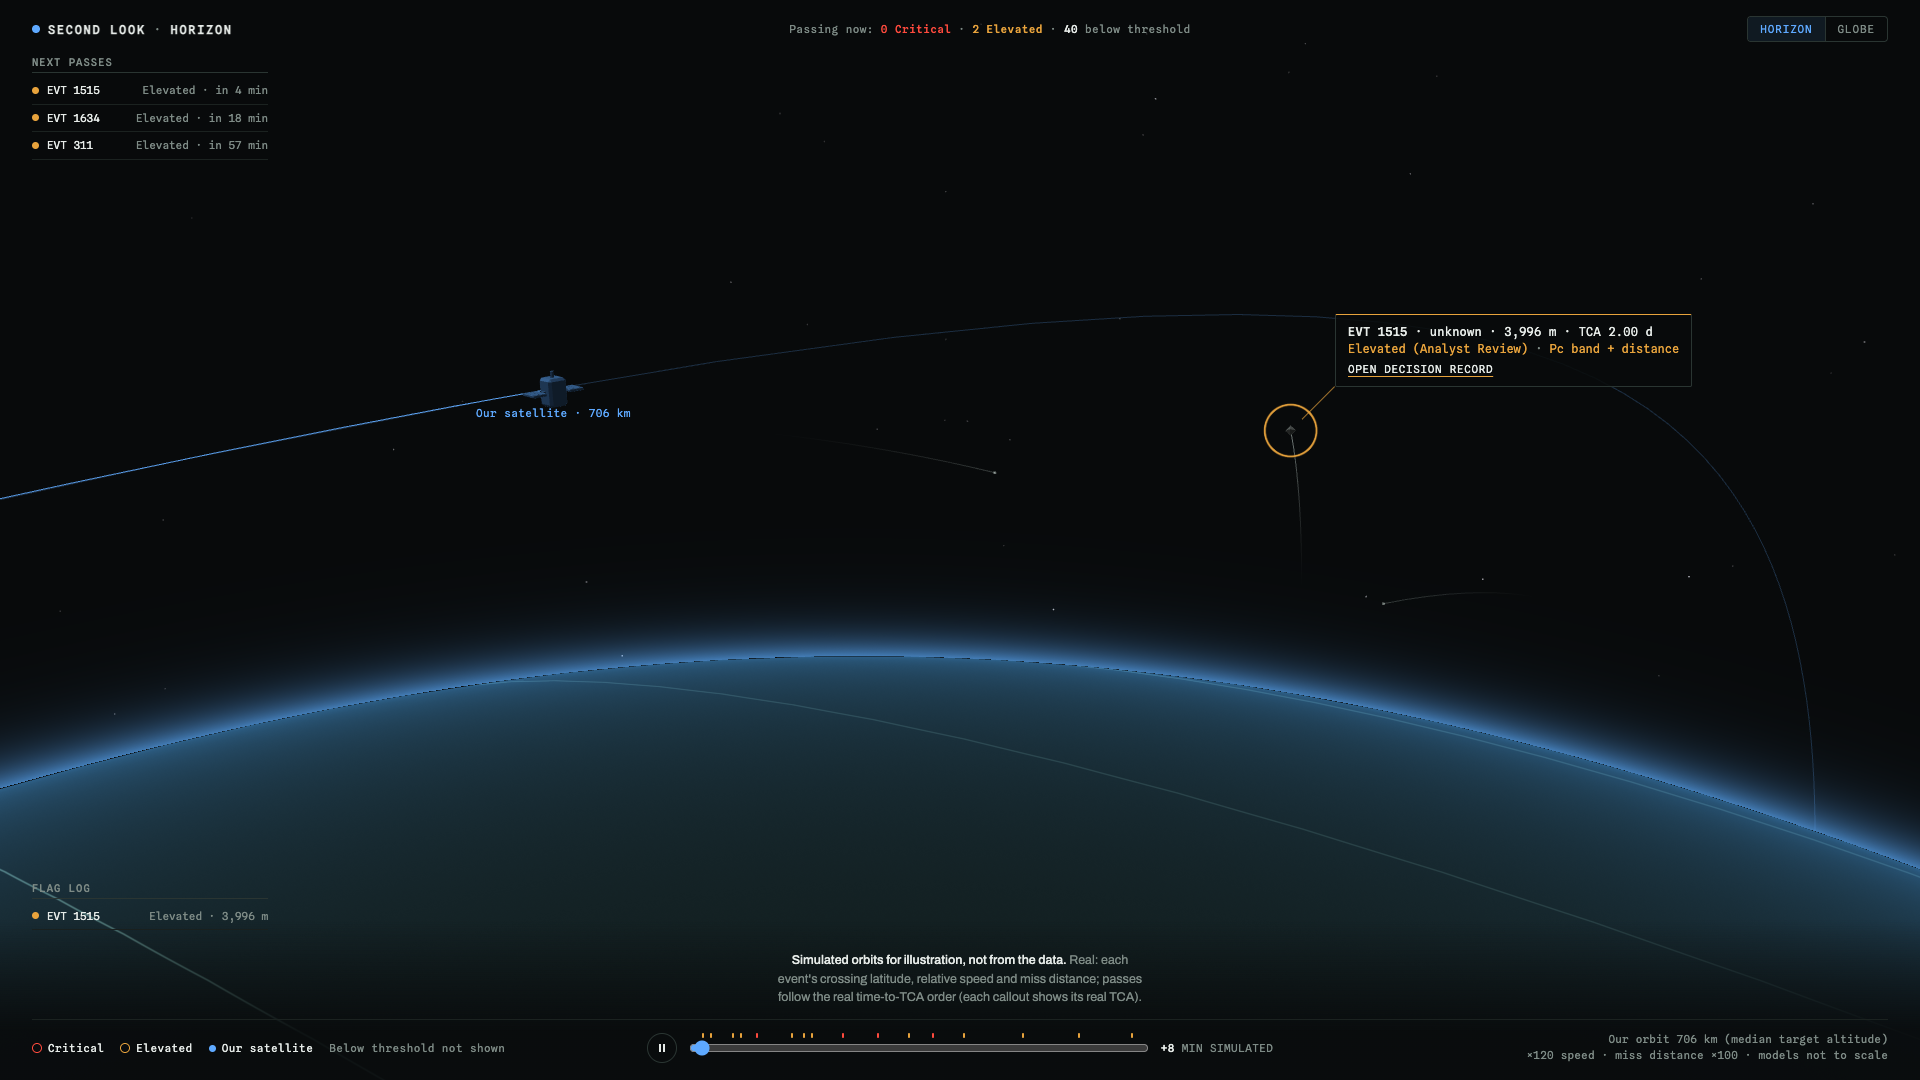
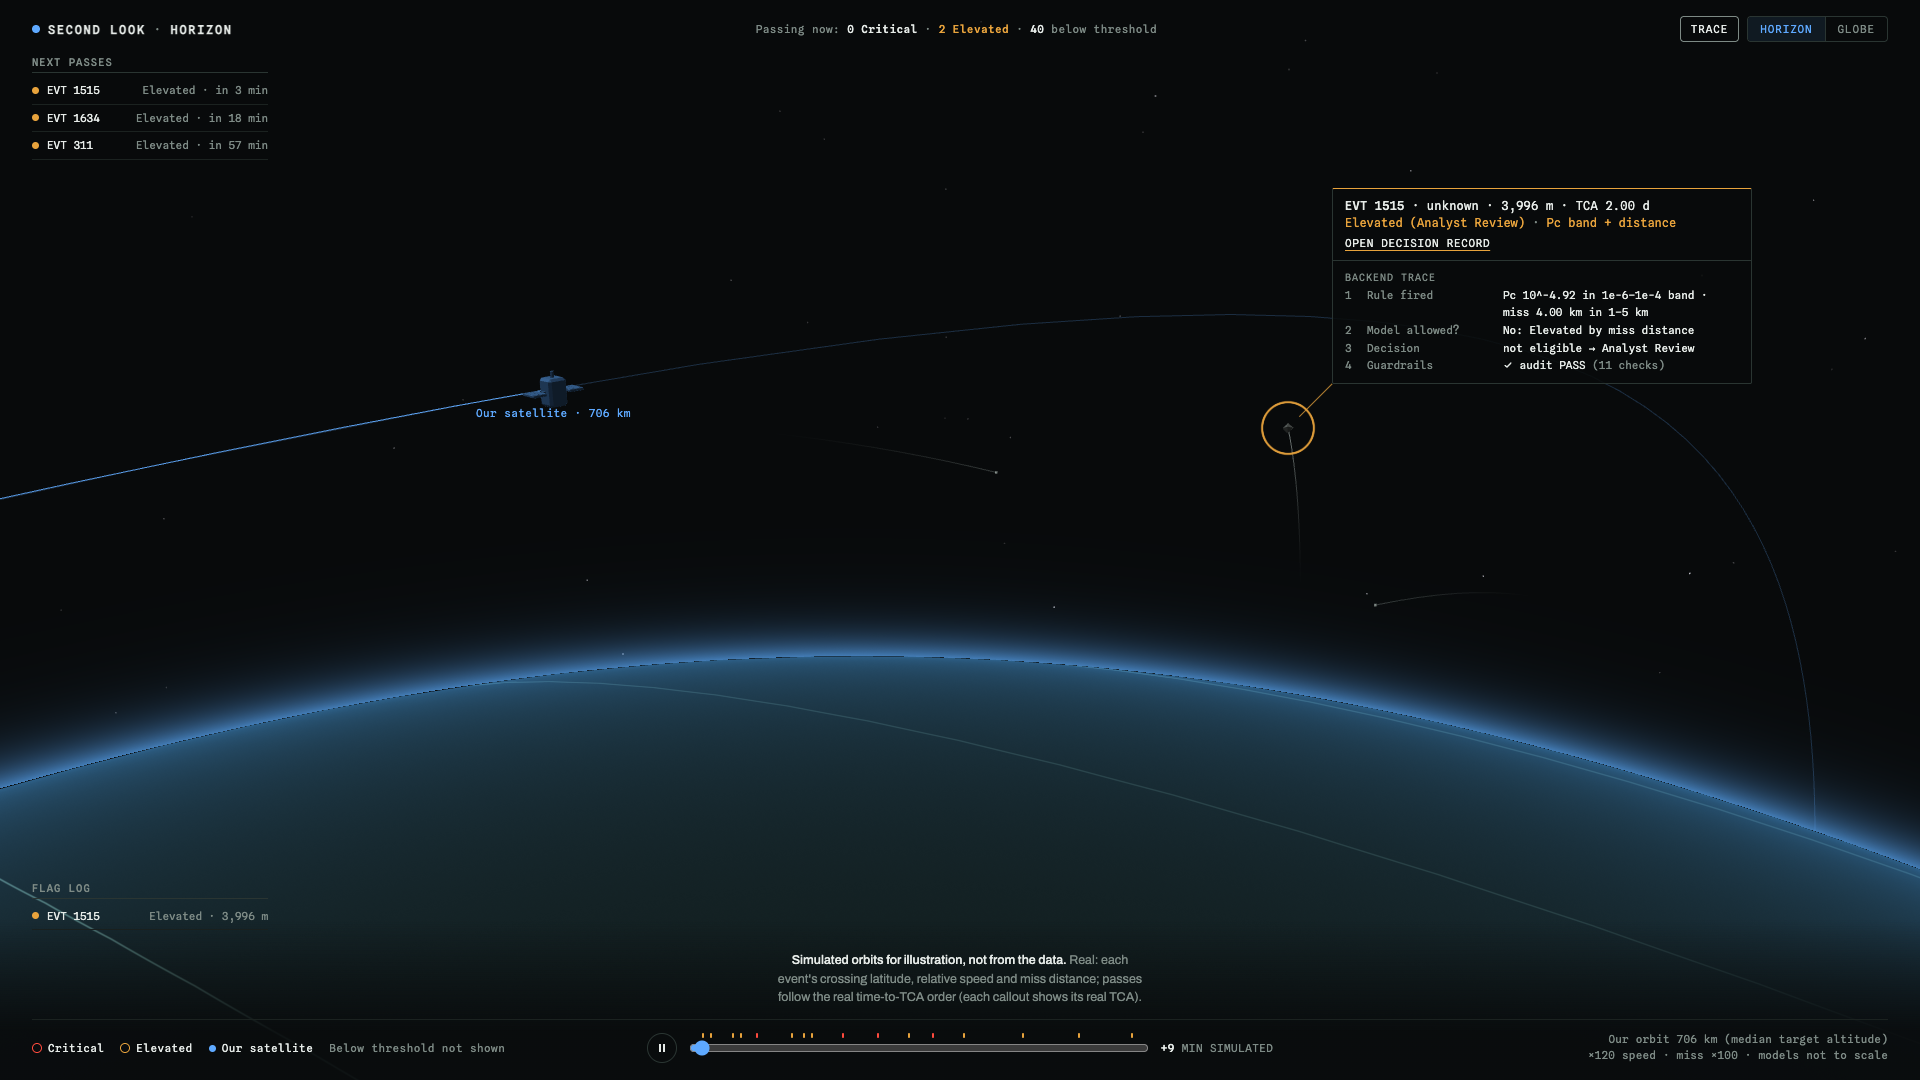
Horizon: backend trace strip under the active flag, Trace toggle
When a flag appears, a slim strip under its callout lights up step by step
(250 ms apart; all at once under reduced motion): rule fired (event.reasons),
model allowed? (certificate.candidate / why_not_candidate), score vs threshold
(candidates only), decision -> queue, guardrails (/api/audit status, fetched
once). A Trace toggle in the header hides it. Open decision record stays the
way to the full detail. Also: own-label never slides under the callout, zero
counters stay neutral.

diff --git a/static/js/horizon.js b/static/js/horizon.js
@@ -24,6 +24,40 @@ const lerp = (a, b, t) => a + (b - a) * t;
 const ease = (t) => (t < 0.5 ? 4 * t * t * t : 1 - (-2 * t + 2) ** 3 / 2);
 const V = (a) => new THREE.Vector3(a[0], a[1], a[2]);
 
+// Guardrail audit (GET /api/audit), fetched once; the trace's last step reads it.
+let audit = null;
+fetch("/api/audit").then((r) => (r.ok ? r.json() : null)).then((a) => { audit = a || { status: "unavailable" }; })
+  .catch(() => { audit = { status: "unavailable" }; });
+
+// ---------- backend trace: what the pipeline did for this event, from its certificate (docs/CONTRACT.md) ----------
+const shortReason = (r) => r
+  .replace(/^miss distance (.+?) < 1 km$/, "miss $1 < 1 km")
+  .replace(/^miss distance (.+?) km within 1-5 km$/, "miss $1 km in 1–5 km")
+  .replace(/^Pc 10\^(-?[\d.]+) >= 1e-4.*$/, "Pc 10^$1 ≥ 1e-4")
+  .replace(/^Pc 10\^(-?[\d.]+) in \[1e-6, 1e-4\).*$/, "Pc 10^$1 (elevated band)");
+const WHY_NOT = { Critical: "rule-defined Critical" };
+const CHECK = `<svg class="ok" viewBox="0 0 12 12" aria-hidden="true"><path d="M2.5 6.5l2.3 2.3 4.7-5.3"/></svg>`;
+function traceSteps(e) {
+  const c = e.certificate;
+  const queue = titleCase(e.action && e.action.queue);
+  const steps = [["Rule fired", esc((e.reasons || []).map(shortReason).join(" · ") || "none")]];
+  if (!c) {
+    steps.push(["Model allowed?", `<span class="m">no certificate in this report</span>`]);
+  } else {
+    steps.push(["Model allowed?", c.candidate ? "Yes: demotion candidate" : `No: ${esc(WHY_NOT[c.why_not_candidate] || c.why_not_candidate || "not eligible")}`]);
+    if (c.candidate && c.model_score != null && c.threshold != null) {
+      steps.push(["Score vs threshold", `${c.model_score.toFixed(4)} ${c.model_score < c.threshold ? "<" : "≥"} ${c.threshold.toFixed(4)}`]);
+    }
+    steps.push(["Decision", `${esc(c.decision)} → ${esc(queue)}`]);
+  }
+  const a = audit;
+  const g = !a ? `<span class="m">checking…</span>`
+    : a.status === "PASS" ? `${CHECK} audit PASS <span class="m">(${(a.checks || []).length} checks)</span>`
+    : `<span class="m">audit ${esc(a.status)}</span>`;
+  steps.push(["Guardrails", g]);
+  return steps;
+}
+
 async function main() {
   let events, icons;
   try {
@@ -475,12 +509,47 @@ function start(P, icons, bg) {
 
   // ---------- flag + callout ----------
   const callout = $("#callout"), leader = $("#leader line");
-  let active = null, activeSince = 0;
+  let active = null, activeSince = 0, traceTimers = [];
+  const traceBtn = $("#trace-toggle");
+  let traceOn = true;
+  try { traceOn = localStorage.getItem("horizon.trace") !== "off"; } catch { /* storage blocked: default on */ }
+  traceBtn.setAttribute("aria-pressed", String(traceOn));
+  traceBtn.addEventListener("click", () => {
+    traceOn = !traceOn;
+    traceBtn.setAttribute("aria-pressed", String(traceOn));
+    try { localStorage.setItem("horizon.trace", traceOn ? "on" : "off"); } catch { /* ignore */ }
+    const t = callout.querySelector(".trace");
+    if (t) t.hidden = !traceOn;
+  });
+  function renderTrace(e) {
+    traceTimers.forEach(clearTimeout);
+    traceTimers = [];
+    const steps = traceSteps(e);
+    const ol = document.createElement("ol");
+    ol.className = "trace";
+    ol.hidden = !traceOn;
+    ol.setAttribute("aria-label", "Backend trace");
+    ol.innerHTML = `<li class="th">Backend trace</li>` + steps.map(([k, v], i) =>
+      `<li class="${reduced ? "on" : ""}"><span class="n">${i + 1}</span><span class="k">${k}</span><span class="v">${v}</span></li>`).join("");
+    callout.append(ol);
+    if (!reduced) {
+      [...ol.querySelectorAll("li:not(.th)")].forEach((li, i) => traceTimers.push(setTimeout(() => li.classList.add("on"), 180 + i * 250)));
+    }
+    // the audit may land after the flag: refresh the last line once it does
+    if (!audit) {
+      const wait = setInterval(() => {
+        if (!audit || !ol.isConnected) { if (!ol.isConnected) clearInterval(wait); return; }
+        clearInterval(wait);
+        const last = ol.querySelector("li:last-child .v");
+        if (last) last.innerHTML = traceSteps(e).at(-1)[1];
+      }, 200);
+    }
+  }
   function setActive(o, now) {
     if (o === active) return;
     active = o;
     activeSince = now;
-    if (!o) { callout.hidden = true; leader.parentElement.style.display = "none"; return; }
+    if (!o) { traceTimers.forEach(clearTimeout); callout.hidden = true; leader.parentElement.style.display = "none"; return; }
     const e = o.enc.event, L = e.latest;
     callout.dataset.tier = String(e.tier);
     callout.style.setProperty("--c", e.tier >= 2 ? "var(--crit)" : "var(--elev)");
@@ -489,6 +558,7 @@ function start(P, icons, bg) {
       <div class="l1"><b>EVT ${e.event_id}</b> · ${esc(typeLabel(o.enc.type))} · ${fmtDist(L.miss_distance_m)} · TCA ${L.time_to_tca_days.toFixed(2)} d</div>
       <div class="l2">${TIER_NAME[e.tier]} (${esc(titleCase(e.action && e.action.queue))}) <span class="muted">·</span> ${basis(e)}</div>
       <a href="/static/review.html#event=${e.event_id}">Open decision record</a>`;
+    renderTrace(e);
     callout.hidden = false;
     // restart the entrance animation
     callout.style.animation = "none"; void callout.offsetWidth; callout.style.animation = "";

diff --git a/static/horizon.css b/static/horizon.css
@@ -158,3 +158,25 @@ button, input { font: inherit; color: inherit; }
   .panel.log { display: none; }
   .panel { width: 200px; }
 }
+
+/* header tools: Trace toggle + view switch */
+.tools { display: flex; align-items: center; gap: var(--s2); }
+.toggle {
+  background: rgba(8, 10, 11, .6); border: 1px solid var(--hair2); border-radius: 4px; padding: 5px 10px; cursor: pointer;
+  font: 11px var(--mono); letter-spacing: .08em; text-transform: uppercase; color: var(--muted);
+}
+.toggle:hover { color: var(--ink); }
+.toggle[aria-pressed="true"] { color: var(--ink); border-color: var(--muted); }
+
+/* backend trace: a slim strip under the callout; steps light up one by one */
+.trace { margin: var(--s2) calc(-1 * var(--s3)) 0; padding: var(--s2) var(--s3) 0; border-top: 1px solid var(--hair2); list-style: none; font: 11px/1.6 var(--mono); }
+.trace .th { color: var(--muted); font-size: 10px; letter-spacing: .1em; text-transform: uppercase; margin-bottom: 2px; }
+.trace li:not(.th) { display: grid; grid-template-columns: 12px 116px 1fr; gap: 0 var(--s2); opacity: .22; transition: opacity .3s cubic-bezier(.16, 1, .3, 1); }
+.trace li.on { opacity: 1; }
+.trace .n { color: var(--muted); font-variant-numeric: tabular-nums; }
+.trace .k { color: var(--muted); }
+.trace .v { color: var(--ink); font-variant-numeric: tabular-nums; }
+.trace .m { color: var(--muted); }
+.trace .ok { width: 10px; height: 10px; vertical-align: -1px; fill: none; stroke: var(--ink); stroke-width: 1.6; stroke-linecap: round; stroke-linejoin: round; }
+.callout { max-width: min(420px, calc(100vw - 32px)); }
+@media (prefers-reduced-motion: reduce) { .trace li:not(.th) { transition: none; } }

diff --git a/static/horizon.html b/static/horizon.html
@@ -28,9 +28,12 @@ FINISH: unreviewed and undocumented is unfinished; this build ends with the fini
 <header class="hz-top">
   <div class="brand"><span class="mark" aria-hidden="true"></span>SECOND LOOK <span class="sep">·</span> HORIZON</div>
   <p id="counts" class="counts num" aria-live="off"></p>
+  <div class="tools">
+  <button type="button" id="trace-toggle" class="toggle" aria-pressed="true" title="Show the backend trace under each flag">Trace</button>
   <div class="views" role="group" aria-label="Camera view">
     <button type="button" data-view="0" aria-pressed="true">Horizon</button>
     <button type="button" data-view="1" aria-pressed="false">Globe</button>
+  </div>
   </div>
 </header>
 
